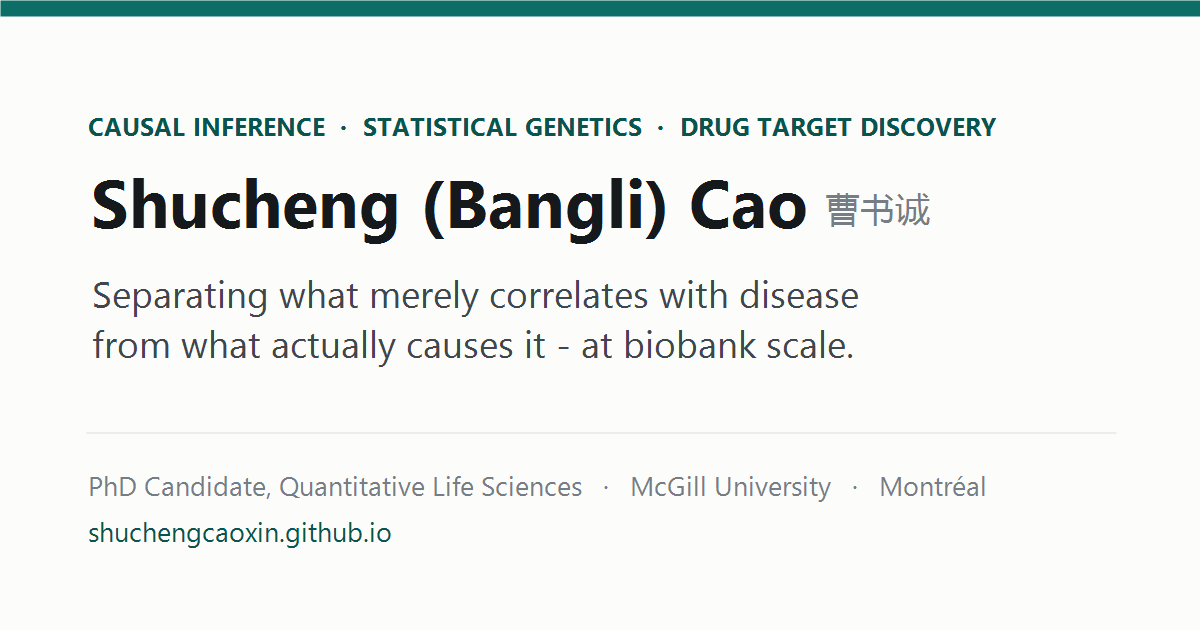
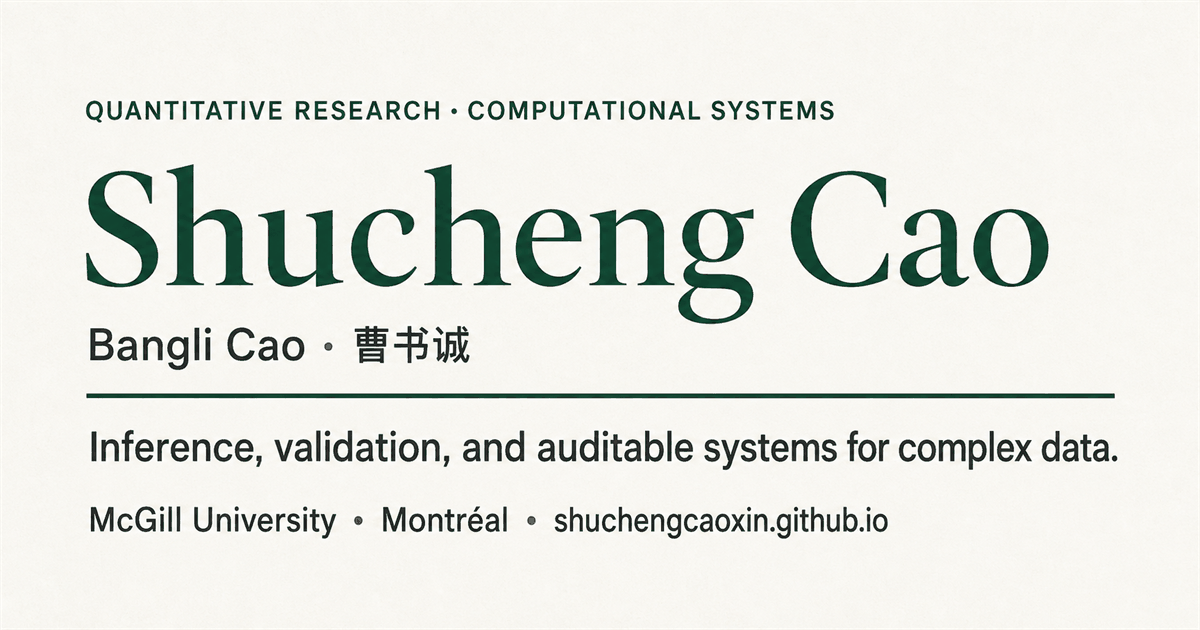
feat: reposition homepage around transferable quantitative methods

diff --git a/index.html b/index.html
@@ -4,8 +4,8 @@
 <meta charset="utf-8">
 <meta name="viewport" content="width=device-width, initial-scale=1">
 
-<title>Shucheng Cao (Bangli Cao) | Causal Genetics at McGill</title>
-<meta name="description" content="Shucheng Cao, also known as Bangli Cao, is a Quantitative Life Sciences PhD candidate at McGill University working in causal genetics, Mendelian randomization, colocalization, proteomics, and auditable research software.">
+<title>Shucheng Cao (Bangli Cao) | Quantitative Research &amp; Computational Systems</title>
+<meta name="description" content="Shucheng Cao, also known as Bangli Cao, is a McGill PhD candidate working across causal inference, statistical modelling, machine-learning evaluation, simulation, and auditable computational systems. His current applications are in genetics and biomedicine.">
 <meta name="author" content="Shucheng Cao (Bangli Cao)">
 <meta name="robots" content="index, follow, max-image-preview:large, max-snippet:-1, max-video-preview:-1">
 <link rel="canonical" href="https://shuchengcaoxin.github.io/">
@@ -13,19 +13,21 @@
 
 <meta property="og:type" content="profile">
 <meta property="og:site_name" content="Shucheng Cao">
-<meta property="og:title" content="Shucheng Cao (Bangli Cao) | Causal Genetics at McGill">
-<meta property="og:description" content="PhD candidate at McGill studying the causal genetics of metabolic disease and building research tools whose evidence can be inspected.">
+<meta property="og:title" content="Shucheng Cao (Bangli Cao) | Quantitative Research &amp; Computational Systems">
+<meta property="og:description" content="Quantitative inference, machine-learning evaluation, simulation, and auditable evidence systems—currently applied to genetics and biomedical data.">
 <meta property="og:url" content="https://shuchengcaoxin.github.io/">
-<meta property="og:image" content="https://shuchengcaoxin.github.io/assets/img/og-card.png">
+<meta property="og:image" content="https://shuchengcaoxin.github.io/assets/img/og-card.png?v=20260902-quantitative">
 <meta property="og:image:width" content="1200">
 <meta property="og:image:height" content="630">
+<meta property="og:image:alt" content="Shucheng Cao — quantitative research and computational systems">
 <meta property="profile:first_name" content="Shucheng">
 <meta property="profile:last_name" content="Cao">
 <meta property="profile:username" content="shuchengcaoxin">
 <meta name="twitter:card" content="summary_large_image">
-<meta name="twitter:title" content="Shucheng Cao (Bangli Cao) | Causal Genetics at McGill">
-<meta name="twitter:description" content="Causal genetics, drug-target discovery, and research software that keeps the evidence visible.">
-<meta name="twitter:image" content="https://shuchengcaoxin.github.io/assets/img/og-card.png">
+<meta name="twitter:title" content="Shucheng Cao (Bangli Cao) | Quantitative Research &amp; Computational Systems">
+<meta name="twitter:description" content="Quantitative inference, machine-learning evaluation, simulation, and auditable evidence systems.">
+<meta name="twitter:image" content="https://shuchengcaoxin.github.io/assets/img/og-card.png?v=20260902-quantitative">
+<meta name="twitter:image:alt" content="Shucheng Cao — quantitative research and computational systems">
 <meta name="theme-color" content="#f3f0e8">
 
 <script type="application/ld+json">
@@ -63,7 +65,7 @@
       "image": "https://shuchengcaoxin.github.io/assets/img/profile.jpg",
       "email": "mailto:shucheng.cao@mail.mcgill.ca",
       "jobTitle": "PhD Candidate in Quantitative Life Sciences",
-      "description": "Researcher in causal and statistical genetics, Mendelian randomization, colocalization, proteomics, and auditable research software.",
+      "description": "Quantitative researcher working on causal inference, statistical modelling, simulation, machine-learning evaluation, and auditable computational systems, with current applications in genetics and biomedicine.",
       "affiliation": [
         {
           "@type": "CollegeOrUniversity",
@@ -83,15 +85,22 @@
         "addressCountry": "CA"
       },
       "knowsAbout": [
+        "Quantitative research",
+        "Statistical inference",
         "Causal inference",
+        "Statistical modelling",
+        "Model validation",
+        "Robustness and sensitivity analysis",
+        "Machine learning evaluation",
+        "Out-of-distribution generalization",
+        "Simulation",
+        "Data integration and provenance",
+        "Reproducible research software",
+        "Bioinformatics",
+        "Statistical genetics",
         "Mendelian randomization",
         "Colocalization",
-        "Statistical genetics",
-        "Genome-wide association studies",
-        "Proteomics",
-        "Metabolic dysfunction-associated steatotic liver disease",
-        "Drug target discovery",
-        "Research software"
+        "Genome-wide association studies"
       ],
       "sameAs": [
         "https://orcid.org/0000-0002-9115-6259",
@@ -314,6 +323,15 @@ h1 .cn { color: var(--ink-faint); font-size: .38em; letter-spacing: .03em; white
   margin: 0 9px 1px 0;
   border-radius: 50%;
   background: var(--rust);
+}
+
+.availability-detail {
+  display: block;
+  margin-top: 6px;
+  color: var(--ink-soft);
+  font-family: -apple-system, BlinkMacSystemFont, "Segoe UI", "Helvetica Neue", Arial, sans-serif;
+  font-size: 13.5px;
+  line-height: 1.55;
 }
 
 .portrait { margin: 4px 0 0; }
@@ -627,8 +645,8 @@ footer {
 <header class="site-header shell">
   <a class="wordmark" href="#top" aria-label="Shucheng Cao, home">Shucheng Cao</a>
   <nav aria-label="Primary navigation">
-    <a href="#now">now</a>
-    <a href="#work">work</a>
+    <a href="#methods">methods</a>
+    <a href="#work">applications</a>
     <a href="#papers">papers</a>
     <a href="#notes">notes</a>
     <a href="assets/pdf/CV_EN.pdf" target="_blank" rel="noopener">cv ↗</a>
@@ -638,15 +656,16 @@ footer {
 <main id="top" class="shell">
   <section class="hero" aria-labelledby="page-title">
     <div class="hero-copy">
-      <p class="eyebrow">Causal genetics / research software</p>
+      <p class="eyebrow">Quantitative inference / computational systems</p>
       <h1 id="page-title">Shucheng Cao <span class="cn">曹书诚</span></h1>
       <p class="published-name">Also known and published as <strong>Bangli Cao</strong></p>
-      <p class="lead">My PhD asks which circulating proteins have a causal effect on metabolic disease.</p>
+      <p class="lead">I work on quantitative problems where conclusions must survive confounding, distribution shift, and independent checks.</p>
       <aside class="availability" aria-label="Availability">
         <span class="availability-label">Open to opportunities</span>
         <strong>Graduating in 2027;</strong> available for 2026–27 internships and 2027 full-time roles.
+        <span class="availability-detail">Looking for quantitative research, applied AI, and research-engineering roles across data-intensive domains.</span>
       </aside>
-      <p>I am a Quantitative Life Sciences PhD candidate at McGill University. I mostly work with Mendelian randomization, colocalization, and large-scale GWAS and pQTL data. I also build research software when the evidence trail is difficult to inspect.</p>
+      <p>I am a Quantitative Life Sciences PhD candidate at McGill University. My work spans causal inference, statistical modelling, machine-learning evaluation, simulation, and research engineering. I turn noisy, heterogeneous data into conclusions that can be stress-tested and reconstructed. My current applications are in genetics and biomedicine; the underlying problems recur across data-intensive domains.</p>
 
       <div class="hero-links" aria-label="Profile links">
         <a href="mailto:shucheng.cao@mail.mcgill.ca">Email</a>
@@ -664,51 +683,62 @@ footer {
     </figure>
   </section>
 
-  <section id="now" class="section" aria-labelledby="now-title">
-    <p class="section-label"><span>01</span> Now</p>
+  <section id="methods" class="section" aria-labelledby="methods-title">
+    <p class="section-label"><span>01</span> Methods</p>
     <div>
-      <h2 id="now-title">What is on my desk</h2>
-      <p class="section-intro">I currently split my time between a proteome-wide causal analysis for my thesis and OpenCausal, the research tool I led during my CABS internship.</p>
+      <h2 id="methods-title">The transferable core</h2>
+      <p class="section-intro">The methods come first—they are what transfers. Genetics, medicine, and molecular science are where I have tested them most deeply so far.</p>
 
       <div class="now-grid">
         <article class="now-item">
-          <p class="note-meta">Thesis / 2024–present</p>
-          <h3>Proteins and metabolic disease</h3>
-          <p>I am screening circulating proteins for causal effects on MASLD and obesity-related disease. The analysis spans data from more than 790,000 people. A signal stays only if it reproduces across two independent proteomic platforms and survives colocalization and sensitivity checks.</p>
+          <p class="note-meta">Inference</p>
+          <h3>Causal inference from observational data</h3>
+          <p>I use natural experiments, instrumental-variable designs, replication, and sensitivity analysis to distinguish signals that may support decisions from associations that only look persuasive.</p>
         </article>
 
         <article class="now-item">
-          <p class="note-meta">CABS / 2026</p>
-          <h3>CausalSentinel / OpenCausal</h3>
-          <p>During my CABS internship, I led the engineering of an agent that joins published MR estimates with nine public biomedical databases. It now serves 991 protein dossiers, with the source evidence kept alongside each result.</p>
-          <p class="work-links"><a href="https://github.com/ds4cabs/CausalSentinel" target="_blank" rel="noopener">Repository</a> <a href="https://ds4cabs.github.io/CausalSentinel/dossiers/" target="_blank" rel="noopener">Dossiers</a></p>
+          <p class="note-meta">Scale</p>
+          <h3>Statistical modelling at scale</h3>
+          <p>I work with high-dimensional data where harmonisation, multiple testing, reproducible batch computation, and explicit diagnostics matter as much as fitting the model itself.</p>
+        </article>
+
+        <article class="now-item">
+          <p class="note-meta">Evaluation</p>
+          <h3>Machine learning under distribution shift</h3>
+          <p>I test whether models retain performance outside familiar benchmarks, with an emphasis on out-of-distribution evaluation, leakage, robustness, and reproducible comparisons.</p>
+        </article>
+
+        <article class="now-item">
+          <p class="note-meta">Systems</p>
+          <h3>Auditable AI and evidence pipelines</h3>
+          <p>I build research systems that preserve source provenance, separate retrieved evidence from generated interpretation, and expose unsupported claims rather than hiding them.</p>
         </article>
       </div>
 
-      <p class="working-note"><strong>A working rule</strong>If I cannot reconstruct which file entered a pipeline, which variants survived, and why a step was skipped, I do not regard the analysis as finished. That preference shapes both my genetics workflows and the tools I build.</p>
+      <p class="working-note"><strong>A working rule</strong>If I cannot reconstruct the inputs, transformations, assumptions, validation checks, and failure modes behind a result, I do not regard it as finished. That rule applies to statistical analyses, machine-learning evaluations, and AI-assisted systems.</p>
     </div>
   </section>
 
   <section id="work" class="section" aria-labelledby="work-title">
-    <p class="section-label"><span>02</span> Selected work</p>
+    <p class="section-label"><span>02</span> Applications</p>
     <div>
-      <h2 id="work-title">Selected projects</h2>
-      <p class="section-intro">These four projects trace how my work moved from molecular simulation and medical imaging into causal genetics and research software.</p>
+      <h2 id="work-title">Where I apply it</h2>
+      <p class="section-intro">The domains change, but the quantitative questions repeat: identification, robustness, generalisation, controlled simulation, and evidence quality.</p>
 
       <div class="work-list">
         <article class="work-item">
-          <p class="work-meta"><strong>01</strong> PhD research<br>McGill</p>
+          <p class="work-meta"><strong>01</strong> Statistical inference<br>McGill</p>
           <div>
-            <h3>Proteome-wide causal screen</h3>
-            <p>I built a multi-stage MR and colocalization workflow for metabolic liver disease, then required promising proteins to reproduce on independent measurement platforms. Four candidates remained after those checks; the manuscript is in revision.</p>
+            <h3>Causal inference with multi-stage validation</h3>
+            <p>I designed an automated workflow over GWAS and pQTL data from more than 790,000 participants. Candidate signals must reproduce across independent measurement platforms and survive colocalization and sensitivity checks. Four remained after the full sequence; metabolic liver disease is the current application, and the manuscript is in revision.</p>
           </div>
         </article>
 
         <article class="work-item">
-          <p class="work-meta"><strong>02</strong> Research tool<br>CABS 2026</p>
+          <p class="work-meta"><strong>02</strong> Applied AI<br>CABS 2026</p>
           <div>
-            <h3>CausalSentinel / OpenCausal</h3>
-            <p>The public system combines 101,543 published MR estimates with evidence from genetics and drug-development databases. The output is rendered from a structured ledger; if model-written prose contradicts the retrieved evidence, the card is marked as failed rather than quietly published.</p>
+            <h3>Evidence-grounded LLM system</h3>
+            <p>I led the engineering of CausalSentinel / OpenCausal, which joins 101,543 published estimates with nine public data sources. Its reports are rendered from a structured ledger, and validation compares model-written interpretation with retrieved evidence; contradictions are marked as failed rather than quietly published.</p>
             <div class="work-links">
               <a href="https://github.com/ds4cabs/CausalSentinel" target="_blank" rel="noopener">Code and methods</a>
               <a href="https://ds4cabs.github.io/CausalSentinel/viewer/" target="_blank" rel="noopener">Card viewer</a>
@@ -723,23 +753,23 @@ footer {
         </article>
 
         <article class="work-item">
-          <p class="work-meta"><strong>03</strong> Medical imaging<br>IEEE TPAMI</p>
+          <p class="work-meta"><strong>03</strong> Model evaluation<br>IEEE TPAMI</p>
           <div>
-            <h3>AbdomenCT-1K</h3>
-            <p>I helped build and evaluate a public abdominal CT benchmark with more than 1,000 scans from 12 medical centres. The study measured how much leading segmentation systems lost when they met data from hospitals outside their training distribution.</p>
+            <h3>Out-of-distribution evaluation for 3D vision</h3>
+            <p>On AbdomenCT-1K, I helped build and evaluate a public benchmark containing more than 1,000 scans from 12 medical centres. Its central question was generalisation: how much do leading segmentation systems degrade when tested on institutions outside their training distribution?</p>
           </div>
         </article>
 
         <article class="work-item">
-          <p class="work-meta"><strong>04</strong> Molecular simulation<br>KAUST</p>
+          <p class="work-meta"><strong>04</strong> Simulation<br>KAUST</p>
           <div>
-            <h3>Ultrashort peptide self-assembly</h3>
-            <p>For my MSc, I used controlled molecular-dynamics simulations to separate the effects of hydrophobicity and aromaticity on peptide assembly, then used the resulting mechanism to rank new designs.</p>
+            <h3>Controlled simulation for mechanism discovery</h3>
+            <p>I used controlled molecular-dynamics experiments to isolate the effects of hydrophobicity and aromaticity on self-assembly, then translated the inferred mechanism into a ranking of new peptide designs. The simulation functioned as a controlled computational experiment.</p>
           </div>
         </article>
       </div>
 
-      <p class="methods-line"><strong>Methods used across these projects:</strong> Mendelian randomization, colocalization, GWAS and pQTL analysis, survival and mixed-effects models, PyTorch, molecular dynamics, R, Python, and Linux/HPC.</p>
+      <p class="methods-line"><strong>Core toolkit:</strong> causal inference and statistical modelling · robustness and model validation · machine-learning evaluation · simulation · data integration and provenance · Python, R, PyTorch, Linux/HPC</p>
     </div>
   </section>
 
@@ -747,7 +777,7 @@ footer {
     <p class="section-label"><span>03</span> Papers</p>
     <div>
       <h2 id="papers-title">Selected publications</h2>
-      <p class="section-intro">My publication record began in medical imaging and translational biology; my current work is in causal genetics.</p>
+      <p class="section-intro">My publications span molecular simulation, medical imaging, translational research, and statistical genetics; the common thread is quantitative modelling and rigorous evaluation.</p>
 
       <ol class="publications">
         <li>
@@ -780,7 +810,7 @@ footer {
         <article class="featured-note">
           <p class="note-meta">Technical note / Aug 2026</p>
           <h3>When the model's explanation disagrees with the evidence</h3>
-          <p>A walkthrough of the narrow role an LLM plays in OpenCausal, the checks around it, and a real example in which the validator rejects a confident-sounding conclusion.</p>
+          <p>A case study in LLM validation: what happens when a fluent explanation contradicts retrieved evidence, and how a structured validator exposes the failure.</p>
           <a class="read" href="/blog/what-the-agent-gets-wrong/">Read the note →</a>
         </article>
 
@@ -799,7 +829,7 @@ footer {
     <p class="section-label"><span>05</span> Contact</p>
     <div>
       <h2 id="contact-title">Get in touch</h2>
-      <p class="contact-copy">I am happy to compare notes on MR and colocalization, auditable research pipelines, or work where those methods are useful. Email is the best way to reach me.</p>
+      <p class="contact-copy">I am interested in quantitative research, applied AI, and research-engineering roles wherever model reliability and evidence quality matter—from finance and technology to bioinformatics and drug R&amp;D. My current domain experience is strongest in biomedicine. Email is the best way to reach me.</p>
       <a class="contact-mail" href="mailto:shucheng.cao@mail.mcgill.ca">shucheng.cao@mail.mcgill.ca</a>
     </div>
   </section>

diff --git a/如何更新我的网站.md b/如何更新我的网站.md
@@ -184,3 +184,28 @@ git diff --stat
 5. Google Scholar 的 Homepage、ORCID 的 Websites & social links、LinkedIn Contact info 都补上个人网站。
 
 提交后按“天到周”观察，不要一天反复点很多次；重复提交不会让抓取更快。
+
+---
+
+## 八、定位原则：方法是身份，领域是证据
+
+2026-09-02 再次调整首页定位后，采用下面这层关系：
+
+```text
+上位身份：quantitative researcher + research-software builder
+核心能力：inference、validation、model evaluation、simulation、auditable systems
+应用证据：genetics、drug discovery、medical imaging、molecular science
+```
+
+生物医学是目前成果最强、最具体的应用场景，但不应写成方法的边界。因此：
+
+1. 首屏先写可迁移的问题，例如 confounding、distribution shift、robustness 和 traceability。
+2. 第二层先展示方法，再展示疾病、蛋白或数据库等领域例子。
+3. AI、计算机、生信和医药用已有项目证明；quantitative finance 只写成希望迁移的方向，不冒充已有金融经验。
+4. 不把五个行业并排堆成关键词墙。一个统一的方法身份，比五个互不相干的求职标签更可信。
+
+判断新文案是否写反，可以问：
+
+> 换掉生物数据以后，这句话描述的能力是否仍然成立？
+
+如果答案是否定的，这句话适合放在 Applications；如果仍然成立，才适合放在 Hero 或 Methods。
